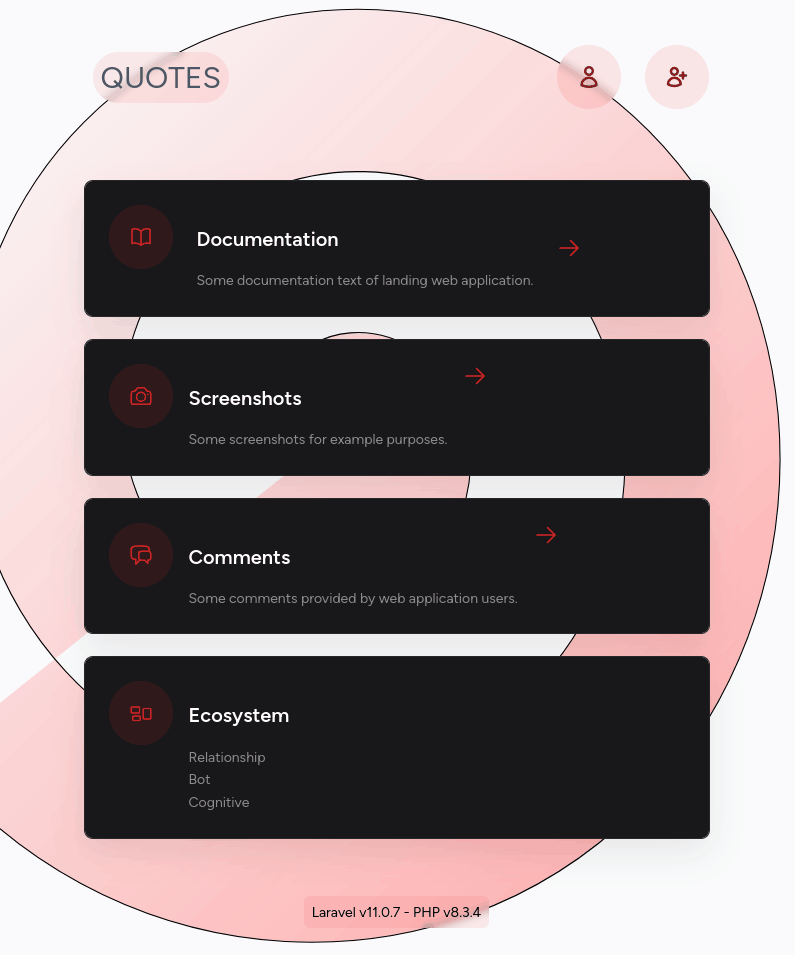
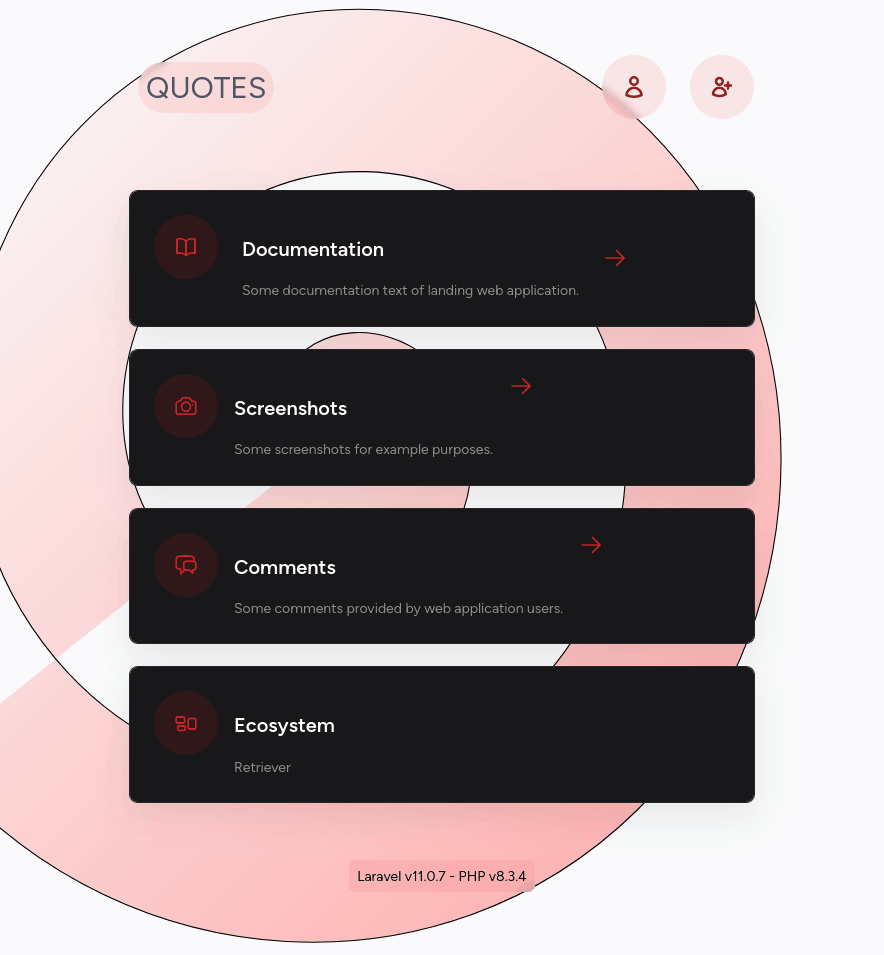
I added a dummy API for testing purposes only

diff --git a/examples/quotes/v2/quotes/resources/js/Pages/Welcome.vue b/examples/quotes/v2/quotes/resources/js/Pages/Welcome.vue
@@ -37,7 +37,7 @@ function handleImageError() {
                 <header class="grid items-center grid-cols-2 gap-2 py-10 lg:grid-cols-3">
                     <div class="flex lg:justify-center lg:col-start-2">
                         <h1 class="text-3xl uppercase text-slate-600">
-                            <span class="m-2 p-2 rounded-full backdrop-blur-sm bg-red-500/10">
+                            <span class="p-2 m-2 rounded-full backdrop-blur-sm bg-red-500/10">
                                 quotes
                             </span>
                         </h1>
@@ -181,18 +181,8 @@ function handleImageError() {
 
                                 <ul class="mt-4 text-sm/relaxed">
                                     <li>
-                                        <a href="#">
-                                            Relationship
-                                        </a>
-                                    </li>
-                                    <li>
-                                        <a href="#">
-                                            Bot
-                                        </a>
-                                    </li>
-                                    <li>
-                                        <a href="#">
-                                            Cognitive
+                                        <a href="https://192.168.122.103/retriever/index.html" target="_blank">
+                                            Retriever
                                         </a>
                                     </li>
                                 </ul>
@@ -202,7 +192,7 @@ function handleImageError() {
                 </main>
 
                 <footer class="py-16 text-sm text-center text-black">
-                    <span class="m-2 p-2 rounded-md backdrop-blur-sm bg-red-500/10">
+                    <span class="p-2 m-2 rounded-md backdrop-blur-sm bg-red-500/10">
                         Laravel v{{ laravelVersion }} - <a href="info.php" target="_blank" title="PHP info">PHP v{{
                         phpVersion }}</a>
                     </span>

diff --git a/examples/quotes/v2/quotes/routes/api.php b/examples/quotes/v2/quotes/routes/api.php
@@ -6,3 +6,33 @@ use Illuminate\Support\Facades\Route;
 Route::get('/user', function (Request $request) {
     return $request->user();
 })->middleware('auth:sanctum');
+
+Route::get('/test', function () {
+    $samples = [
+        [
+            'available' => false,
+            'imageName' => 'hologram_01.png',
+        ],
+        [
+            'available' => false,
+            'imageName' => 'hologram_02.png',
+        ],
+        [
+            'available' => true,
+            'imageName' => 'hologram_03.png',
+        ],
+        [
+            'available' => false,
+            'imageName' => 'hologram_04.png',
+        ],
+        [
+            'available' => true,
+            'imageName' => 'hologram_05.png',
+        ],
+        [
+            'available' => false,
+            'imageName' => 'hologram_06.png',
+        ],
+    ];
+    return json_encode($samples);
+});
